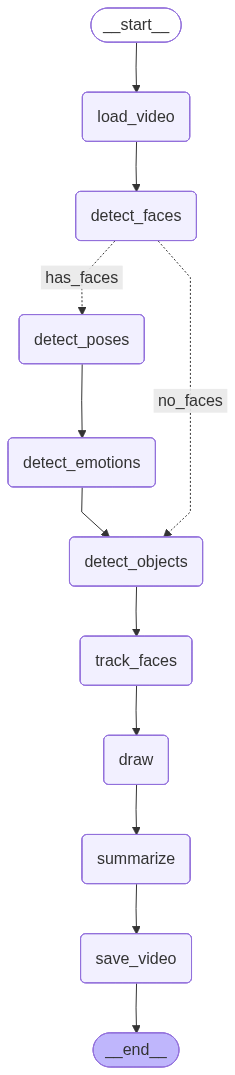
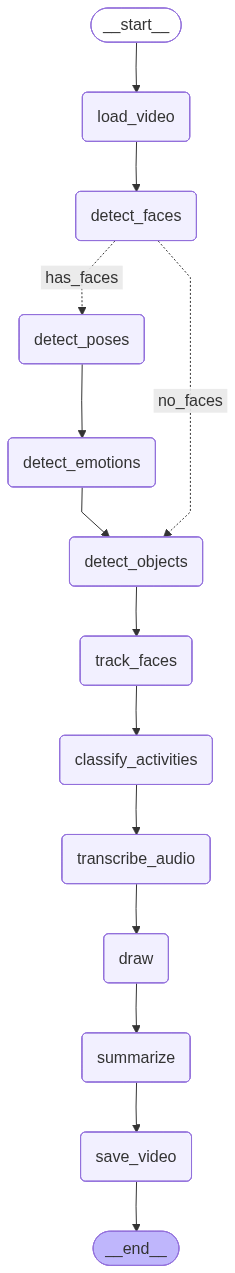
Refactor face.py for improved readability, update pipeline.py to enhance pose detection logic, remove IoU threshold from types.py, and add bbox_distance utility function in utils.py

diff --git a/emoact/pipeline.py b/emoact/pipeline.py
@@ -1,3 +1,8 @@
+from calendar import c
+
+import cv2
+from torch import embedding
+from emoact import utils
 from emoact.types import PersonInfo, PipelineState
 from langgraph.graph import StateGraph, START, END
 
@@ -84,7 +89,7 @@ def detect_poses(state: PipelineState):
                         if iou > best_iou:
                             best_iou = iou
                             best_person = person
-            if best_person and best_iou > state["iou_threshold"]:
+            if best_person and best_iou > 0.01:
                 best_person["pose"]["landmarks"] = [
                     {
                         "x": float(keypoints[i]),
@@ -136,7 +141,7 @@ def draw(state: PipelineState):
     from emoact.utils import draw_bounding_boxes, draw_text, draw_pose_skeleton
     import cv2
 
-    # Define consistent color scheme
+    # Define color scheme
     COLORS = {
         "face_bbox": (255, 100, 100),  # Light red/pink for face boxes
         "face_text": (255, 150, 150),  # Lighter red for face text
@@ -164,7 +169,7 @@ def draw(state: PipelineState):
 
                 # Draw semi-transparent background for text
                 person_id = person["person_id"] if person["person_id"] else "Unknown"
-                text = f"ID: {person_id} ({confidence:.2f})"
+                text = f"ID: {person_id}"
                 text_size = cv2.getTextSize(text, cv2.FONT_HERSHEY_SIMPLEX, 0.5, 2)[0]
 
                 # Background rectangle for better text visibility
@@ -285,6 +290,16 @@ def track_faces(state: PipelineState) -> PipelineState:
     return state
 
 
+# TODO: Add a classification node to classify activities based on detected poses and also use 'yolov11-cls' model to classifify images
+def classify_activities(state: PipelineState):
+    return state
+
+
+# TODO: Add transcription node to extract audio and transcribe speech
+def transcribe_audio(state: PipelineState):
+    return state
+
+
 def summarize(state: PipelineState):
     total_frames = len(state["frames"])
     total_persons = sum(len(frame_info["persons"]) for frame_info in state["frames"])
@@ -325,6 +340,8 @@ graph_builder.add_node("detect_emotions", detect_emotions)
 graph_builder.add_node("track_faces", track_faces)
 graph_builder.add_node("draw", draw)
 graph_builder.add_node("summarize", summarize)
+graph_builder.add_node("classify_activities", classify_activities)
+graph_builder.add_node("transcribe_audio", transcribe_audio)
 graph_builder.add_node("save_video", save_video)
 
 # Arestas
@@ -339,8 +356,10 @@ graph_builder.add_edge("detect_poses", "detect_emotions")
 
 graph_builder.add_edge("detect_emotions", "detect_objects")
 graph_builder.add_edge("detect_objects", "track_faces")
+graph_builder.add_edge("track_faces", "classify_activities")
 
-graph_builder.add_edge("track_faces", "draw")
+graph_builder.add_edge("classify_activities", "transcribe_audio")
+graph_builder.add_edge("transcribe_audio", "draw")
 graph_builder.add_edge("draw", "summarize")
 graph_builder.add_edge("summarize", "save_video")
 
@@ -354,7 +373,6 @@ if __name__ == "__main__":
         "fps": 0.0,
         "frames": [],
         "summary": "",
-        "iou_threshold": 0.01,
         "object_conf_threshold": 0.5,
         "pose_conf_threshold": 0.3,
     }

diff --git a/emoact/utils.py b/emoact/utils.py
@@ -8,6 +8,17 @@ def cosine_similarity(a: np.ndarray, b: np.ndarray) -> float:
     return float(np.dot(a_norm, b_norm))
 
 
+def bbox_distance(bbox1, bbox2):
+    """Calculate the Euclidean distance between the centers of two bounding boxes.
+    Each bbox is defined as (left, top, right, bottom).
+    """
+    x1_center = (bbox1[0] + bbox1[2]) / 2
+    y1_center = (bbox1[1] + bbox1[3]) / 2
+    x2_center = (bbox2[0] + bbox2[2]) / 2
+    y2_center = (bbox2[1] + bbox2[3]) / 2
+    return np.sqrt((x1_center - x2_center) ** 2 + (y1_center - y2_center) ** 2)
+
+
 def draw_graph(graph, filename="graph"):
     """Draws the state graph to a file."""
     graph_bytes = graph.get_graph().draw_mermaid_png()

diff --git a/emoact/types.py b/emoact/types.py
@@ -44,8 +44,6 @@ class PipelineState(TypedDict):
     fps: float
     frames: list[FrameInfo]
     summary: str
-    iou_threshold: (
-        float  # IoU (Intersection over Union) threshold for pose-face matching
-    )
+
     object_conf_threshold: float  # Confidence threshold for object detection
     pose_conf_threshold: float  # Confidence threshold for pose landmarks

diff --git a/emoact/face.py b/emoact/face.py
@@ -1,7 +1,9 @@
 import numpy as np
 import insightface
 
-app = insightface.app.FaceAnalysis("buffalo_l", providers=["CUDAExecutionProvider"])
+app = insightface.app.FaceAnalysis(
+    "buffalo_l", root="./", providers=["CUDAExecutionProvider"]
+)
 app.prepare(ctx_id=0, det_size=(640, 640))
 
 
